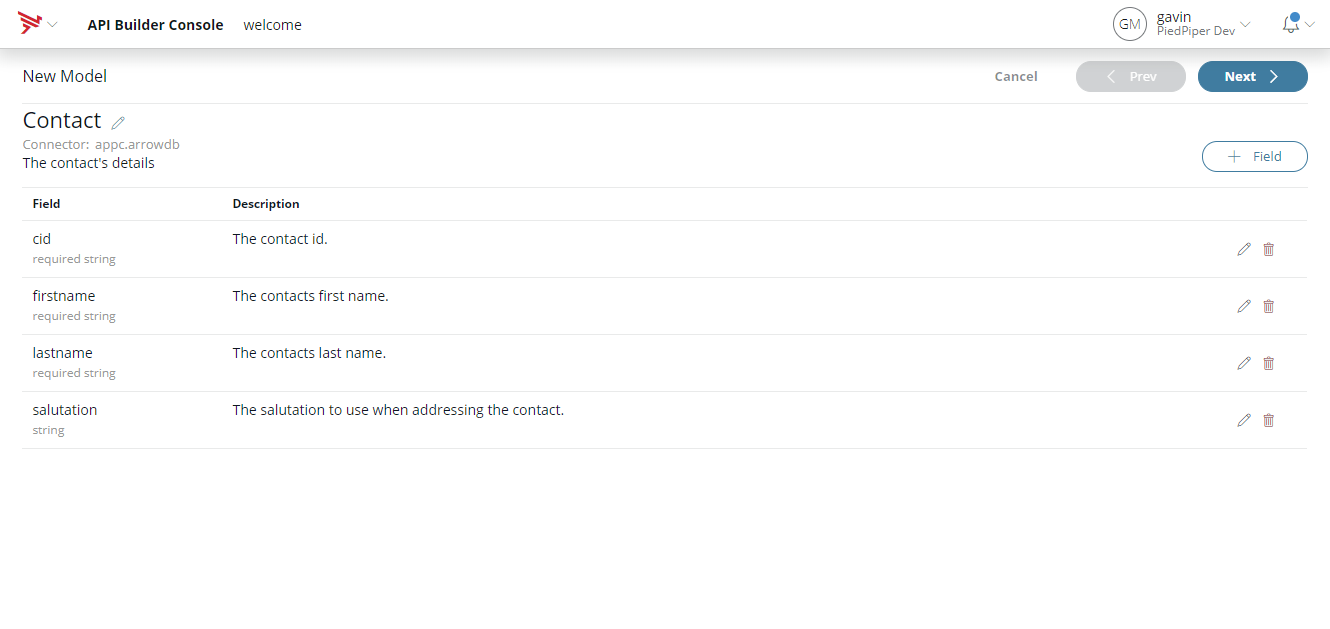
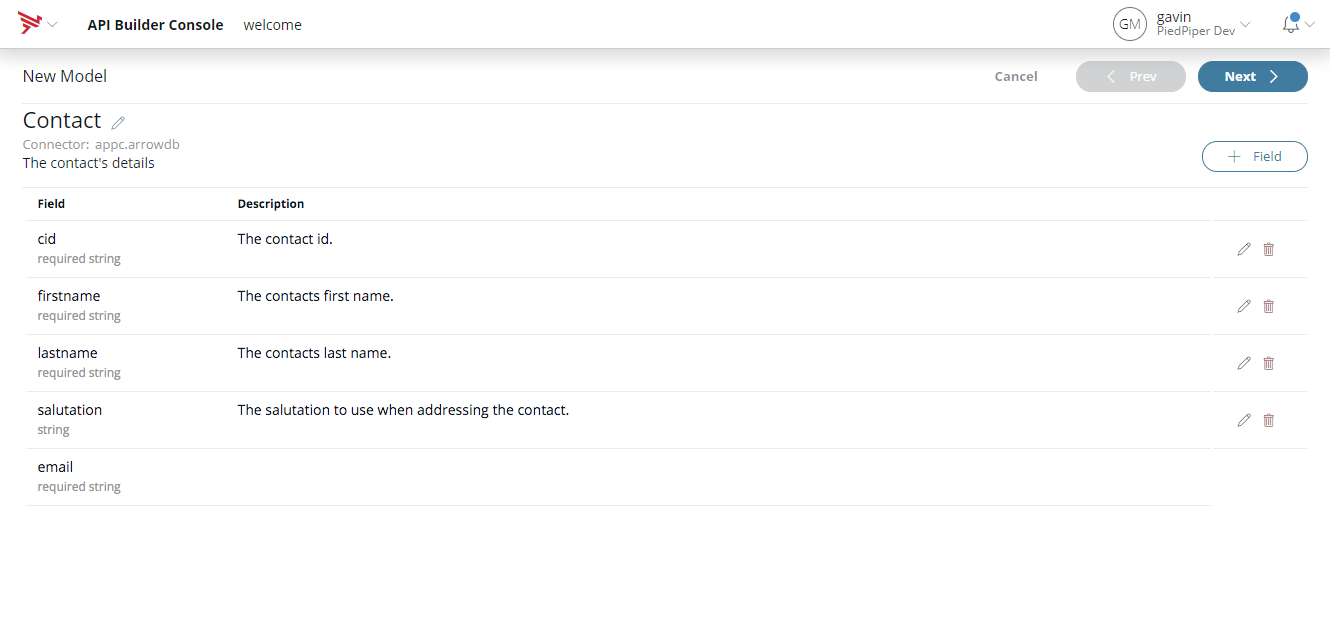
Add the email field to contact earlier so we do not have to back track and add it later

diff --git a/01_ModelFirst/Readme.md b/01_ModelFirst/Readme.md
@@ -9,7 +9,7 @@ Open the Models page by clicking on the Cube in the navigation bar or browse to 
 Create a "Contact" model.
 ![ModelNewView](./imgs/localhost_8080_console_project_models_new.png)
 
-Add the fields cid, firstname, lastname and salutation:
+Add the fields cid, firstname, lastname, salutation, and email:
 ![ModelFieldsView](./imgs/localhost_8080_console_project_models_create.png)
 
 No need to create the APIs for the model as we'll generate flow based endpoints later.
@@ -68,7 +68,8 @@ Use the panel to create the following entries:
   "cid": "batman",
   "firstname": "Bruce",
   "lastname": "Wayne",
-  "salutation": "Mr."
+  "salutation": "Mr.",
+  "email": "batman@gotham.com"
 }
 ```
 
@@ -76,7 +77,8 @@ Use the panel to create the following entries:
 {
   "cid": "spiderman",
   "firstname": "Peter",
-  "lastname": "Parker"
+  "lastname": "Parker",
+  "email": "spider@ny.com"
 }
 ```
 
@@ -85,7 +87,8 @@ Use the panel to create the following entries:
   "cid": "wonderwoman",
   "firstname": "Diana",
   "lastname": "Prince",
-  "salutation": "Ms."
+  "salutation": "Ms.",
+  "email": "ww@earth.com"
 }
 ```
 
@@ -94,7 +97,8 @@ Use the panel to create the following entries:
   "cid": "superman",
   "firstname": "Clark",
   "lastname": "Kent",
-  "salutation": "Mr."
+  "salutation": "Mr.",
+  "email": "cs@city.com"
 }
 ```
 
@@ -110,27 +114,31 @@ Executing this should return data like:
     "cid": "superman",
     "firstname": "Clark",
     "lastname": "Kent",
-    "salutation": "Mr."
+    "salutation": "Mr.",
+    "email": "cs@city.com"
   },
   {
     "id": "5a1483b45bbb6a027f000c71",
     "cid": "wonderwoman",
     "firstname": "Diana",
     "lastname": "Prince",
-    "salutation": "Ms."
+    "salutation": "Ms.",
+    "email": "ww@earth.com"
   },
   {
     "id": "5a14838993e737027c000d54",
     "cid": "spiderman",
     "firstname": "Peter",
-    "lastname": "Parker"
+    "lastname": "Parker",
+    "email": "spider@ny.com"
   },
   {
     "id": "5a1483635bbb6a0275000c9f",
     "cid": "batman",
     "firstname": "Bruce",
     "lastname": "Wayne",
-    "salutation": "Mr."
+    "salutation": "Mr.",
+    "email": "batman@gotham.com"
   }
 ]
 ```

diff --git a/05_ServiceConnector/Readme.md b/05_ServiceConnector/Readme.md
@@ -33,31 +33,6 @@ Restart the API Builder console and you should now see the _Concur_ connector.
 
 This new node can now be used in the flow like any other node. Concur is for an expense tracking, so in this contrived example we'll query the pending expenses for the contact.
 
-## Model Updates
-
-Concur's user names are email based so we'll add a new field to our _Contact_ model for email.
-
-![ContactEmailEdit](./imgs/ContactEmailEdit.png)
-
-Rather than use the _Update contact_ API on _Contact_ well use the dashboard to edit the data. Navigate to the dashboard list of apps https://platform-preprod.axwaytest.net/#/app and search for you application. Once open click on the _Manage Data_
-
-![ManageData](./imgs/ManageData.png)
-
-Cick on _Custom Objects_ and from the _Select Type_ drop down select contact. Expand the batman row (only going to update batman for this example but you could do them all).
-
-![BatmanView](./imgs/BatmanView.png)
-
-Click the pencil and in the _Fields_ add an email:
-
-```
-{
-  "cid": "batman",
-  "firstname": "Bruce",
-  "lastname": "Wayne",
-  "salutation": "Mr.",
-  "email": "batman@gotham.com"
-}
-```
 
 ## Updated Use case
 
